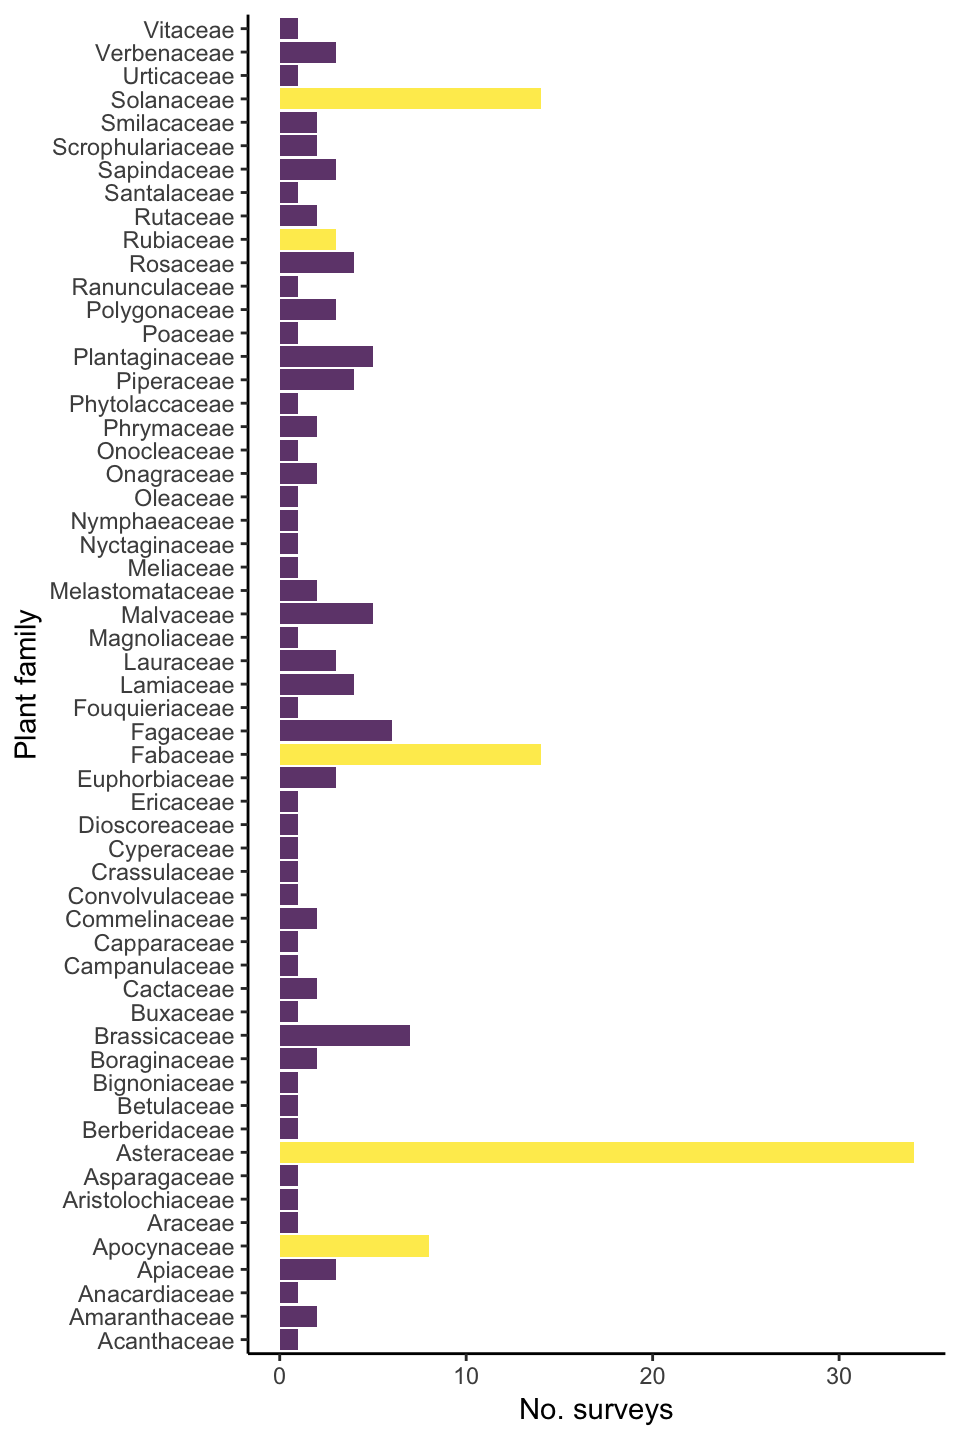
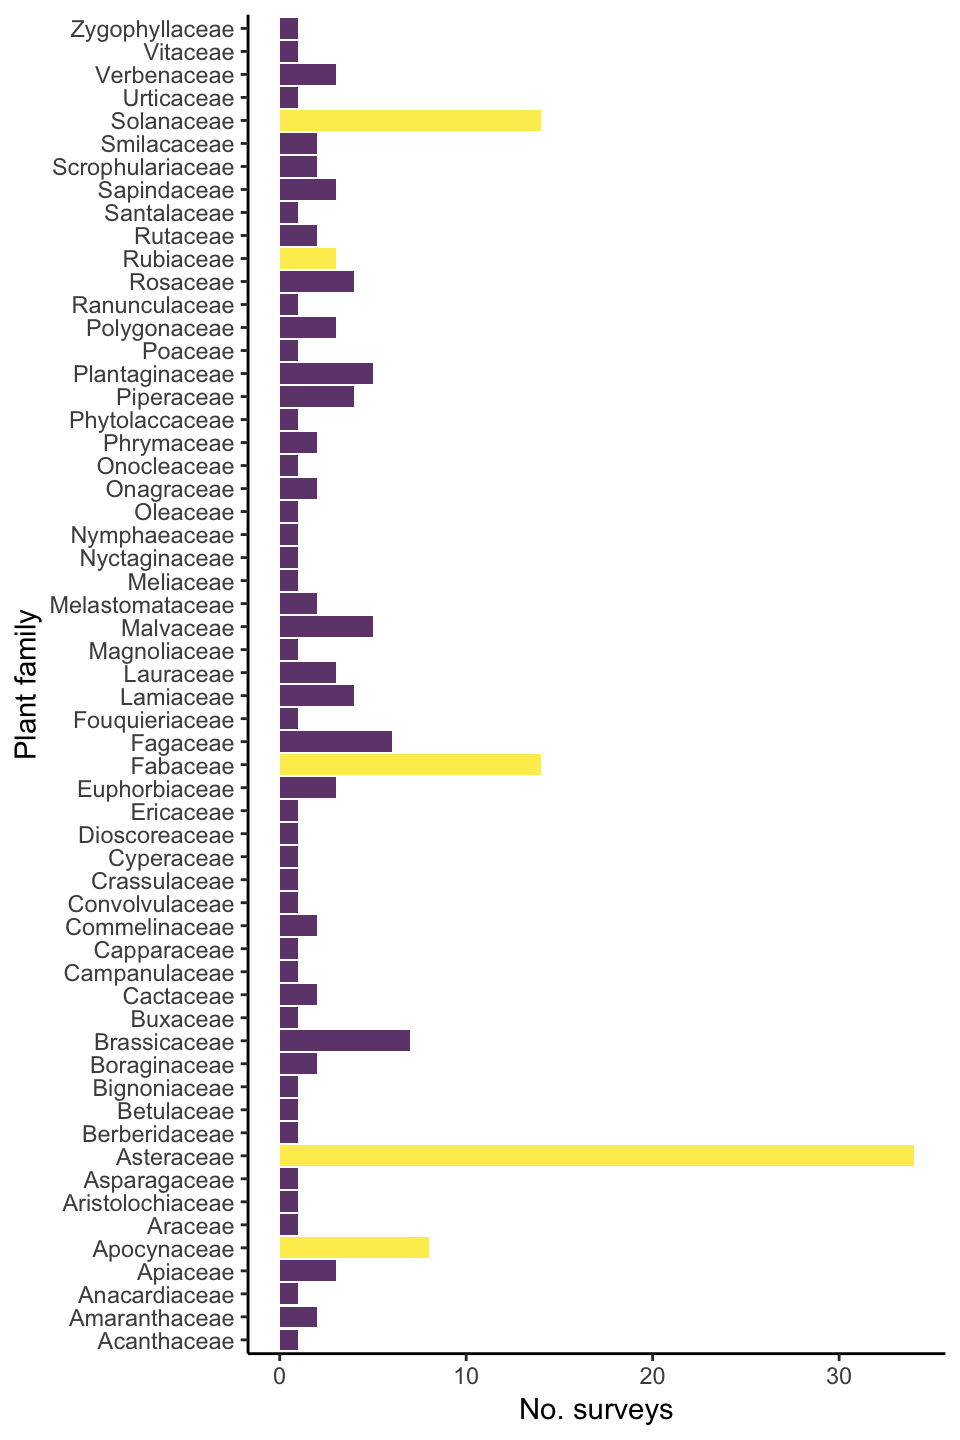
new surveys

Changed region(s): [[0.0312, 0.0, 0.25, 0.9375], [0.2812, 0.0312, 0.9375, 0.8438]]

diff --git a/index.html b/index.html
@@ -221,7 +221,7 @@ $(document).ready(function () {
 <p>Welcome to the Herbivory Variability Network (“HerbVar”). We are a global research network that aims to describe and understand how and why patterns in plant–herbivore interactions vary across the tree of life and around the world.</p>
 <p><img src="photos/herb_collage.png" width="600px" style="display: block; margin: auto;" /></p>
 <p>Although we are a new network (founded in mid 2019), we already have 100+ collaborators from more than 60 institutions across 23 countries. Please email <a href="leadership.html">Will Wetzel, Moria Robinson, or a member of the HerbVar Planning Group</a> if you are interested in joining us. We are always looking for additional collaborators, especially those who can contribute data from under-sampled regions or from new plant families or focal plant families and species.</p>
-<p>Our growing dataset currently includes &gt; 175 surveys, including &gt; 140 plant species from &gt; 55 plant families. These are spread across North America, Central America, South America, Europe, Africa, Asia, and Australia, and we are working to expand our geographic extent.</p>
+<p>Our growing dataset currently includes &gt; 175 surveys, including &gt; 150 plant species from &gt; 55 plant families. These are spread across North America, Central America, South America, Europe, Africa, Asia, and Australia, and we are working to expand our geographic extent.</p>
 <div class="figure" style="text-align: center">
 <img src="index_files/figure-html/unnamed-chunk-4-1.png" alt="Sampling areas with at least one completed survey (yellow) and planned sampling areas (purple). We’re continually adding new planned sites." width="600px" />
 <p class="caption">

diff --git a/status.html b/status.html
@@ -218,7 +218,7 @@ $(document).ready(function () {
 </div>
 
 
-<p>The Herbivory Variability Network has completed 178 surveys on 150 plant species from 57 plant families. These figures and tables update as new data are entered into our database, so check back often!</p>
+<p>The Herbivory Variability Network has completed 179 surveys on 151 plant species from 58 plant families. These figures and tables update as new data are entered into our database, so check back often!</p>
 <p>We have a three-scaled sampling approach:</p>
 <ol style="list-style-type: decimal">
 <li>Sampling one plant species from as many plant families as possible</li>
@@ -857,6 +857,10 @@ Sampling areas with at least one completed survey (yellow) and planned sampling 
 </tr>
 <tr class="even">
 <td align="left"><em>Zizia aurea</em></td>
+<td align="left">1</td>
+</tr>
+<tr class="odd">
+<td align="left"><em>Zygophyllum dumosum</em></td>
 <td align="left">1</td>
 </tr>
 </tbody>

diff --git a/collaborators.html b/collaborators.html
@@ -235,7 +235,7 @@ $(document).ready(function () {
 </tr>
 <tr class="even">
 <td align="left">Ramiro Aguilar</td>
-<td align="left">NA</td>
+<td align="left">National University of Córdoba, Argentina</td>
 <td align="left"></td>
 </tr>
 <tr class="odd">
@@ -320,7 +320,7 @@ $(document).ready(function () {
 </tr>
 <tr class="odd">
 <td align="left">Lucas Carbone</td>
-<td align="left">NA</td>
+<td align="left">National University of Córdoba, Argentina</td>
 <td align="left"></td>
 </tr>
 <tr class="even">
